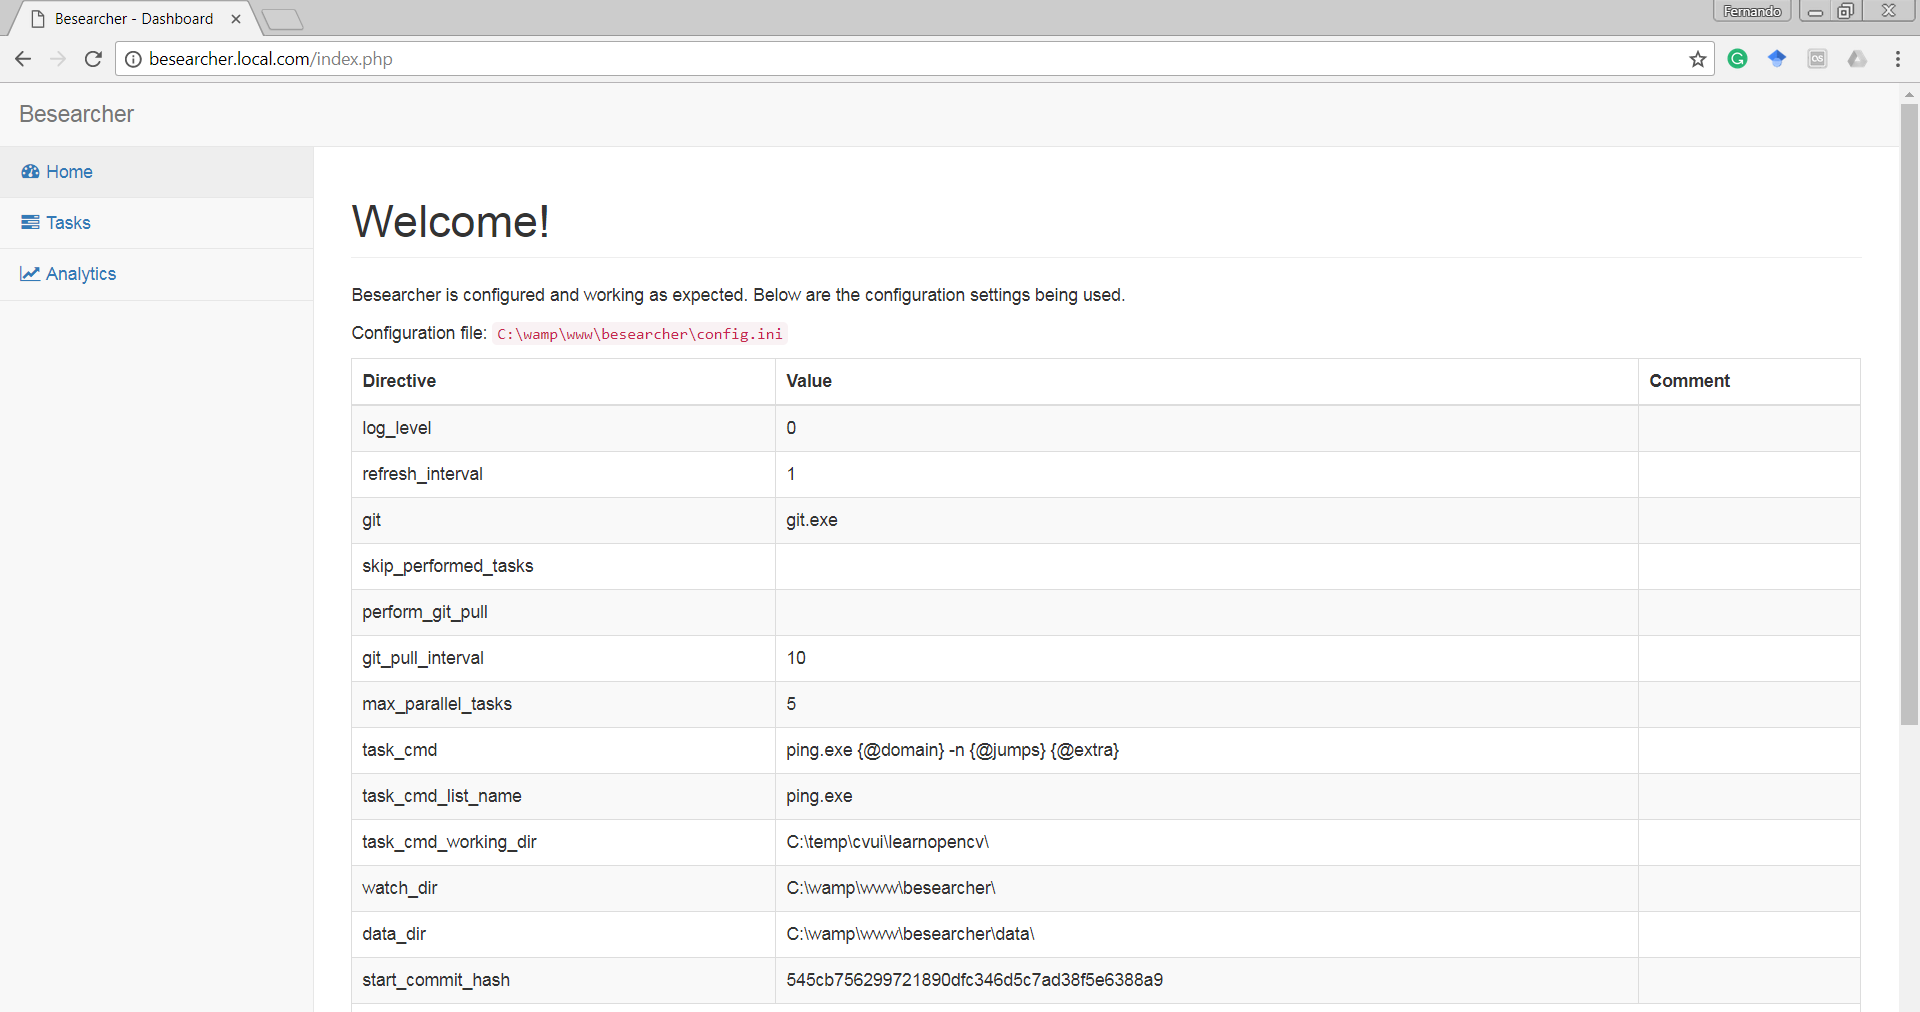
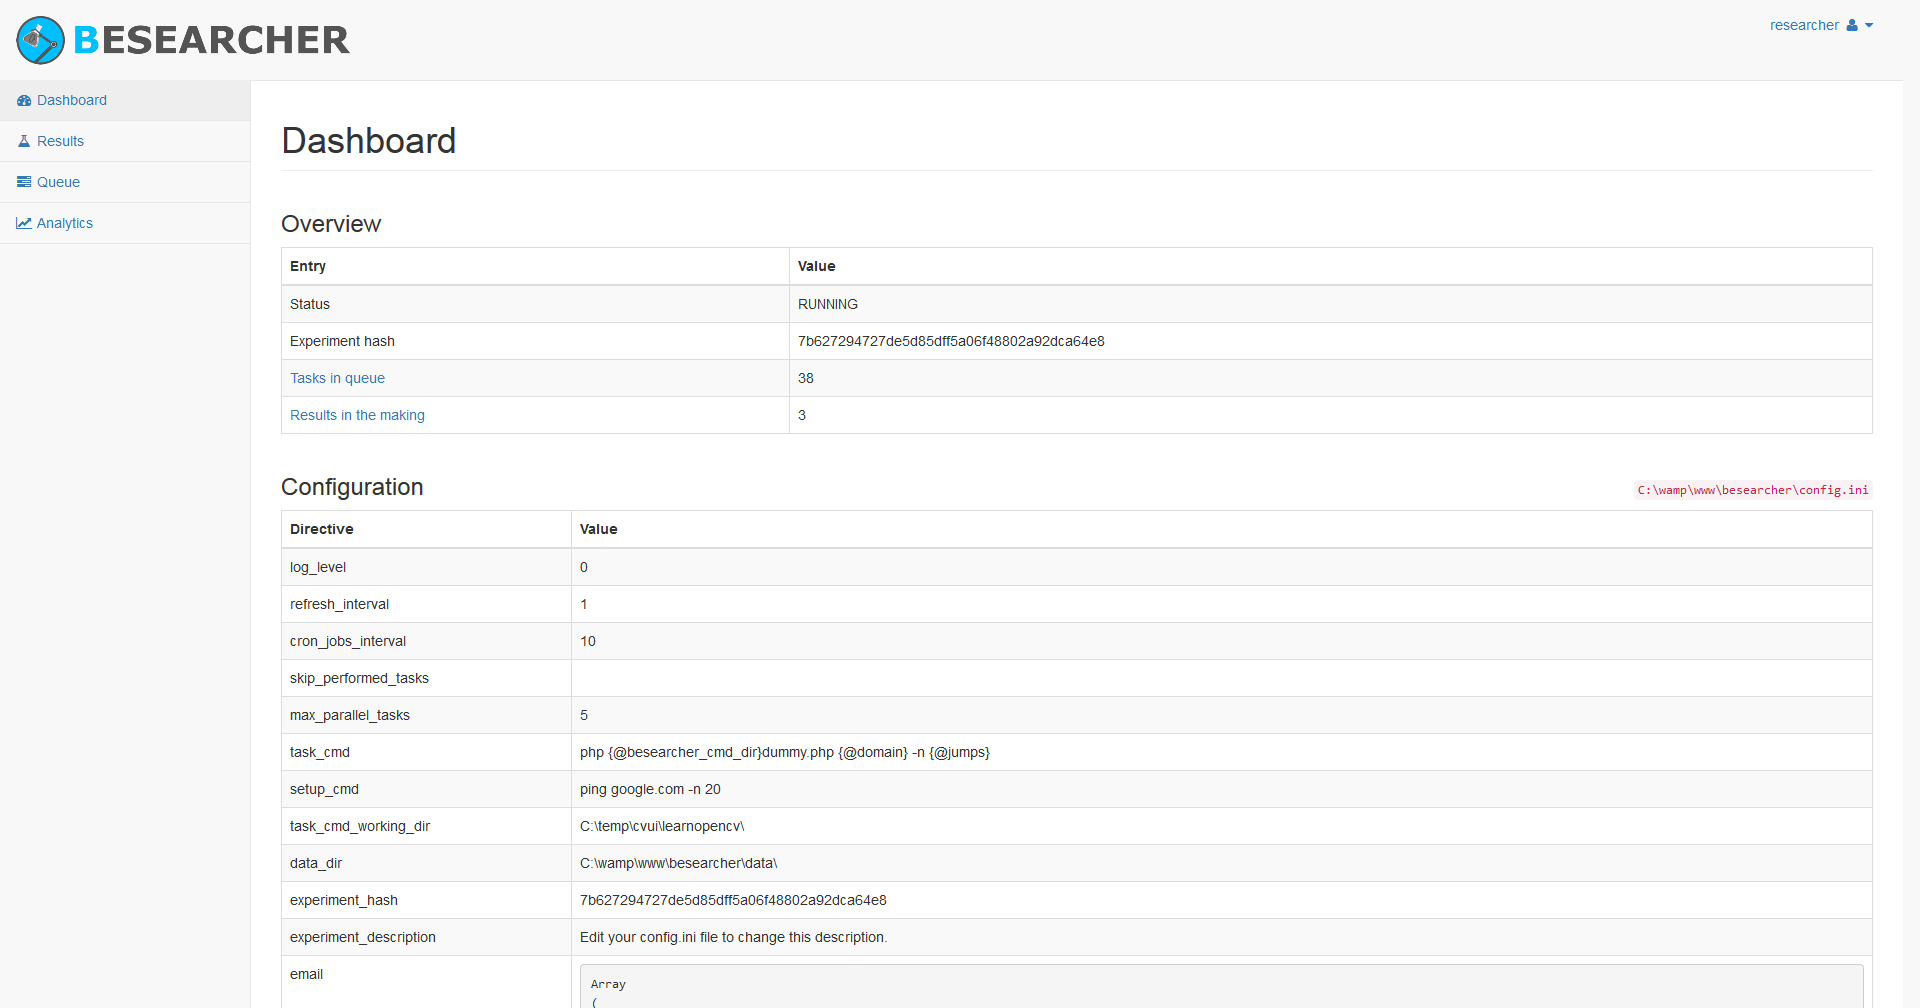
Update README and feature screenshots

diff --git a/README.md b/README.md
@@ -3,7 +3,7 @@
 Besearcher
 ======================
 
-Besearcher (*bot researcher*) is a tool to help researchers automate and keep track of software-based experiments. It automatically monitors a git repository and performs a pre-defined command for each new commit. It is also possible to keep track of commands (running, finished or aborted) and the output they produced.  
+Besearcher (*bot researcher*) is a multiplatform tool to help researchers automate and keep track of software-based experiments. The main idea to define a command, its parameters and the possible values of those parameters. Besearcher will then generates all permutations of that command and its parameter values. It will execute each one of them, keeping track of their status (running, finished or aborted) and the output they produced.
 
 ## Table of content
 
@@ -19,15 +19,17 @@ Besearcher (*bot researcher*) is a tool to help researchers automate and keep tr
 
 ## Features
 
-Besearcher was created out of a need from a scientific project, so its design values reproducibility and trackability of results. It is easy to use, has minimal dependencies (PHP and Git) and focus on automating repetitive and boring tasks. It also has an (optional) web dashboard that allows users to easily and quickly monitor tasks:
+Besearcher was created out of a need from a scientific project, so its design values reproducibility and trackability of results. It is easy to use, has minimal dependencies (PHP) and focus on automating repetitive and boring tasks. It also has an (optional) web dashboard that allows users to easily and quickly monitor tasks:
 
-[![Besearcher web dashboard - home](www/img/screenshots/besearcher-home.png)](./www/img/screenshots/besearcher-home.png)
+[![Besearcher web dashboard - home](www/img/screenshots/besearcher-home.png?20171115)](./www/img/screenshots/besearcher-home.png)
 
-[![Besearcher web dashboard - tasks](www/img/screenshots/besearcher-tasks.png)](./www/img/screenshots/besearcher-tasks.png)
+[![Besearcher web dashboard - tasks](www/img/screenshots/besearcher-tasks.png?20171115)](./www/img/screenshots/besearcher-tasks.png)
 
-[![Besearcher web dashboard - completed sucessful task](www/img/screenshots/besearcher-result-complete.png)](./www/img/screenshots/besearcher-result-complete.png)
+[![Besearcher web dashboard - completed sucessful task](www/img/screenshots/besearcher-result-complete.png?20171115)](./www/img/screenshots/besearcher-result-complete.png)
 
-[![Besearcher web dashboard - task with a problem](www/img/screenshots/besearcher-result-error.png)](./www/img/screenshots/besearcher-result-error.png)
+[![Besearcher web dashboard - queue problem](www/img/screenshots/besearcher-queue.png?20171115)](./www/img/screenshots/besearcher-queue.png)
+
+[![Besearcher web dashboard - analytics problem](www/img/screenshots/besearcher-analytics.png?20171115)](./www/img/screenshots/besearcher-analytics.png)
 
 ## Getting started
 
@@ -67,19 +69,13 @@ copy besearcher\www\config.ini-example besearcher\www\config.ini
 
 Besearcher has two configuration files: `besearcher\config.ini` which controls the behavior of Besearcher, and `besearcher\www\config.ini` which controls the web dashboard.
 
-Let's start with the first one. Open `besearcher\config.ini` in your editor of choice. Search for the line with the directive `watch_dir` and inform the **absolute** path of a cloned git repository that Besearcher will monitor. For example:
-
-```
-watch_dir = "c:\experiment\"
-```
-
-Next search for the line with the directive `data_dir` and inform the **absolute** path of a directory that Besearcher can use to store task results and internal data. For example:
+Let's start with the first one. Open `besearcher\config.ini` in your editor of choice. Search for the line with the directive `data_dir` and inform the **absolute** path of a directory that Besearcher can use to store task results and internal data. For example:
 
 ```
 data_dir = "c:\experiment\besearcher\"
 ```
 
-Finally search for the line with the directive `task_cmd`, which is the command Besearcher will execute everytime a new commit arrives in `watch_dir`:
+Then search for the line with the directive `task_cmd`, which is the command Besearcher will use to create permutation and execute them:
 
 ```
 task_cmd = "test.exe --blah={@data} {@debug} --input={@files}"
@@ -124,9 +120,37 @@ Go to the folder where Besearcher was installed and run:
 php besearcher.php --ini=config.ini
 ```
 
-Besearcher will continue to run and watch the directory in the `config.ini` file. While running, Besearcher will execute the command specified in `task_cmd` for every new commit that arrives in the watched directory.
+Besearcher will continue to run, outputing log messages to `stdout`. While running, Besearcher will execute all permutations created from the command specified in `task_cmd`.
 
-Please check the file [config.ini-example](config.ini-example) for more usage information.
+Since Besearcher might run for a long time to a command with severl permutations, you can control it in the command line using the `bc` tool. Assuming you are in the folder where Besearcher was intalled, just run:
+
+```
+cmd\bc --ini=config.ini OPTION
+```
+
+where `OPTION` is one of the many available options in `bc`. Below are a few examples of how you can control a running instance of Beseacher.
+
+Show a summary (running tasks, results, etc)
+```
+cmd\bc --ini=config.ini --status
+```
+
+Pause the creation of new tasks:
+```
+cmd\bc --ini=config.ini --pause
+```
+
+Resume creation of new tasks:
+```
+cmd\bc --ini=config.ini --resume
+```
+
+Stop Besearcher:
+```
+cmd\bc --ini=config.ini --stop
+```
+
+Run `cmd\bc --help` for a list of all available options. Additionally check the file [config.ini-example](config.ini-example) for more usage information.
 
 ## License
 
